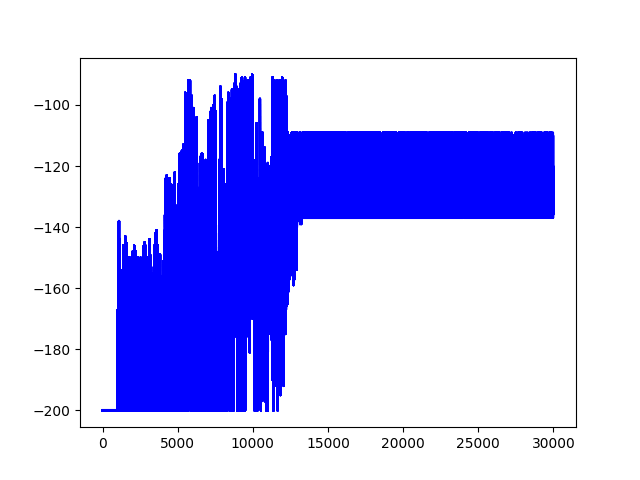
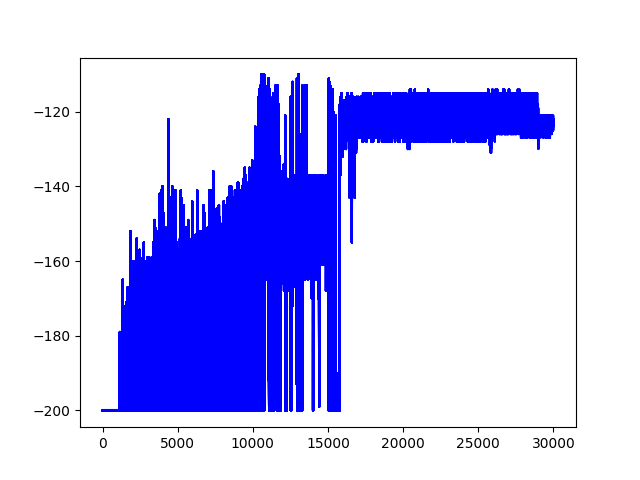
complete add, maxent

diff --git a/mountaincar/maxent/train.py b/mountaincar/maxent/train.py
@@ -2,7 +2,7 @@ import gym
 import pylab
 import numpy as np
 
-import maxent
+from maxent import *
 
 n_states = 400 # position - 20, velocity - 20
 n_actions = 3
@@ -12,10 +12,9 @@ feature_matrix = np.eye((n_states)) # (400, 400)
 
 gamma = 0.99
 q_learning_rate = 0.03
-epochs = 10
-theta_learning_rate = 0.01
+theta_learning_rate = 0.05
 
-np.random.seed(400)
+np.random.seed(1)
 
 def idx_demo(env, one_feature):
     env_low = env.observation_space.low     
@@ -50,13 +49,14 @@ def update_q_table(state, action, reward, next_state):
     q_2 = reward + gamma * max(q_table[next_state])
     q_table[state][action] += q_learning_rate * (q_2 - q_1)
 
-def get_q_table():
-    return q_table
-
 
 def main():
     env = gym.make('MountainCar-v0')
     demonstrations = idx_demo(env, one_feature)
+
+    learner_feature_expectations = np.zeros(n_states)
+
+    theta = -(np.random.uniform(size=(n_states,)))
 
     episodes, scores = [], []
 
@@ -64,22 +64,22 @@ def main():
         state = env.reset()
         score = 0
 
-        if episode == 1000:
-            irl_rewards = maxent.maxent_irl(feature_matrix, n_actions, epochs,
-                                            theta_learning_rate, demonstrations)
+        if episode != 0 and episode == 10000 or (episode > 10000 and episode % 5000 == 0):
+            expert = expert_feature_expectations(feature_matrix, demonstrations)
+            learner = learner_feature_expectations / episode
+            maxent_irl(expert, learner, theta, theta_learning_rate)
                 
         while True:
             state_idx = idx_state(env, state)
             action = np.argmax(q_table[state_idx])
             next_state, reward, done, _ = env.step(action)
             
+            irl_reward = get_reward(feature_matrix, theta, n_states, state_idx)
             next_state_idx = idx_state(env, next_state)
-            if episode >= 1000:
-                irl_reward = irl_rewards[state_idx]
-                update_q_table(state_idx, action, irl_reward, next_state_idx)
-            else:
-                update_q_table(state_idx, action, reward, next_state_idx)
+            update_q_table(state_idx, action, irl_reward, next_state_idx)
             
+            learner_feature_expectations += feature_matrix[int(state_idx)]
+
             score += reward
             state = next_state
             
@@ -92,7 +92,7 @@ def main():
             score_avg = np.mean(scores)
             print('{} episode score is {:.2f}'.format(episode, score_avg))
             pylab.plot(episodes, scores, 'b')
-            pylab.savefig("./learning_curves/maxent_eps_30000.png")
+            pylab.savefig("./learning_curves/maxent_30000.png")
             np.save("./results/maxent_q_table", arr=q_table)
 
 if __name__ == '__main__':

diff --git a/mountaincar/maxent/maxent.py b/mountaincar/maxent/maxent.py
@@ -1,33 +1,8 @@
 import numpy as np
-from itertools import product
-from train import get_q_table
 
-def maxent_irl(feature_matrix, n_actions, epochs, learning_rate, demonstrations):
-    # n_states = 400
-    n_states = feature_matrix.shape[0]
-    
-    # Initialize weights
-    theta = -(np.random.uniform(size=(n_states,)))
-    
-    # Calculate the expert's feature expectations \tilde{f} 
-    expert = expert_feature_expectations(feature_matrix, demonstrations)
-
-    # Compute expected state visitation frequency
-    expected_svf = get_expected_svf(n_states, n_actions, demonstrations)
-    
-    # Gradient descent on theta
-    for i in range(epochs):
-        learner = feature_matrix.T.dot(expected_svf)
-        gradient = expert - learner
-
-        theta += learning_rate * gradient
-
-    # Clip theta
-    for j in range(len(theta)):
-        if theta[j] > 0:
-            theta[j] = 0
-
-    return feature_matrix.dot(theta).reshape((n_states,))
+def get_reward(feature_matrix, theta, n_states, state_idx):
+    irl_rewards = feature_matrix.dot(theta).reshape((n_states,))
+    return irl_rewards[state_idx]
 
 
 def expert_feature_expectations(feature_matrix, demonstrations):
@@ -40,29 +15,11 @@ def expert_feature_expectations(feature_matrix, demonstrations):
     feature_expectations /= demonstrations.shape[0]
     return feature_expectations
 
+def maxent_irl(expert, learner, theta, learning_rate):
+    gradient = expert - learner
+    theta += learning_rate * gradient
 
-def get_expected_svf(n_states, n_actions, demonstrations):
-    demo_num = demonstrations.shape[0]
-    demo_length = demonstrations.shape[1]
-    start_state_count = np.zeros(n_states)
-    
-    # Step 3 in Local action probability computation
-    for demonstration in demonstrations:
-        start_state_count[int(demonstration[0, 0])] += 1
-    p_initial_state = start_state_count/demo_num
-    
-    # Step 4 in Forward pass
-    expected_svf = np.tile(p_initial_state, (demo_length, 1)).T
-
-    # (400, 3)
-    policy = get_q_table()
-    
-    # Step 5 in Forward pass
-    for t in range(1, demo_length):
-        expected_svf[:, t] = 0
-        for i, j, k in product(range(n_states), range(n_actions), range(n_states)):
-            expected_svf[k, t] += expected_svf[i, t-1] * policy[i, j] * 1
-
-    # Step 6 in Summing frequencies
-    return expected_svf.sum(axis=1)
-
+    # Clip theta
+    for j in range(len(theta)):
+        if theta[j] > 0:
+            theta[j] = 0

diff --git a/mountaincar/app/train.py b/mountaincar/app/train.py
@@ -55,7 +55,7 @@ def main():
             action = np.argmax(q_table[state_idx])
             next_state, reward, done, _ = env.step(action)
             
-            features = feature_estimate.get_features(state_idx)
+            features = feature_estimate.get_features(state)
             irl_reward = np.dot(w, features)
             
             next_state_idx = idx_state(env, next_state)
